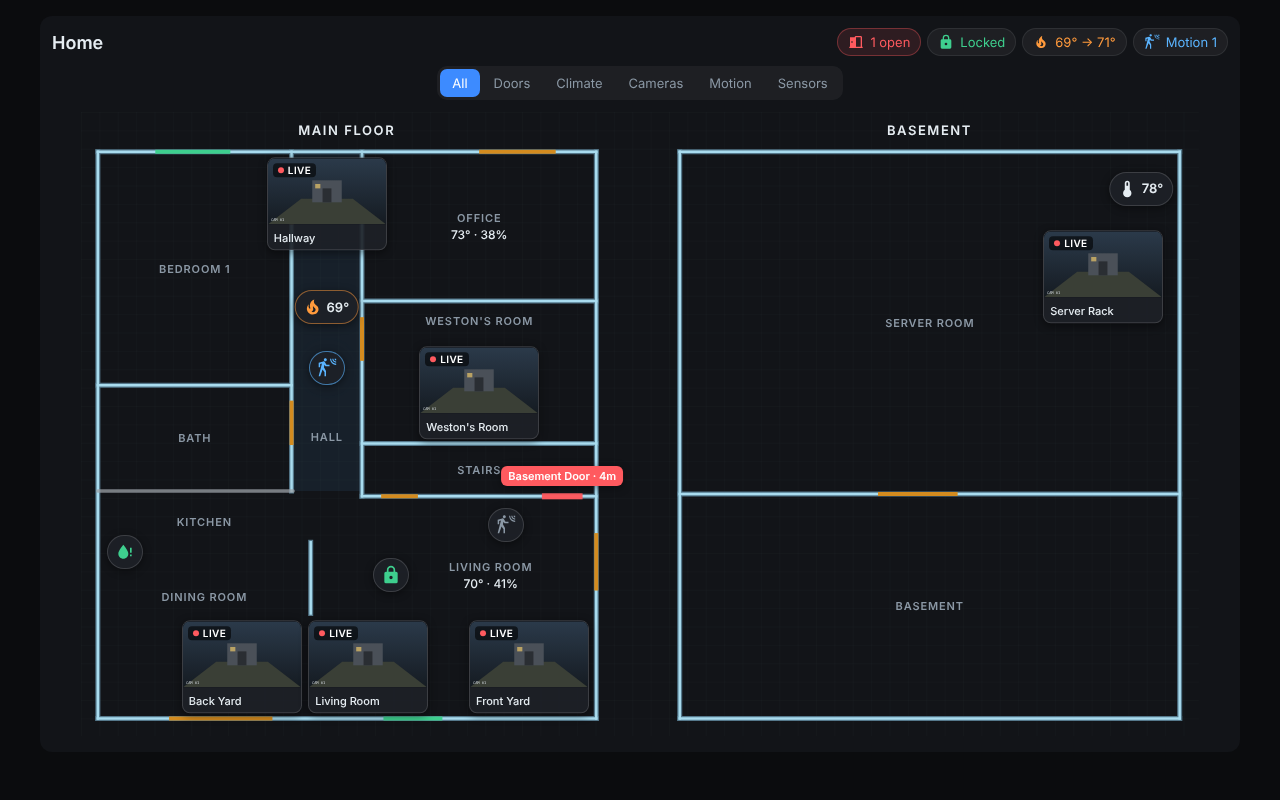
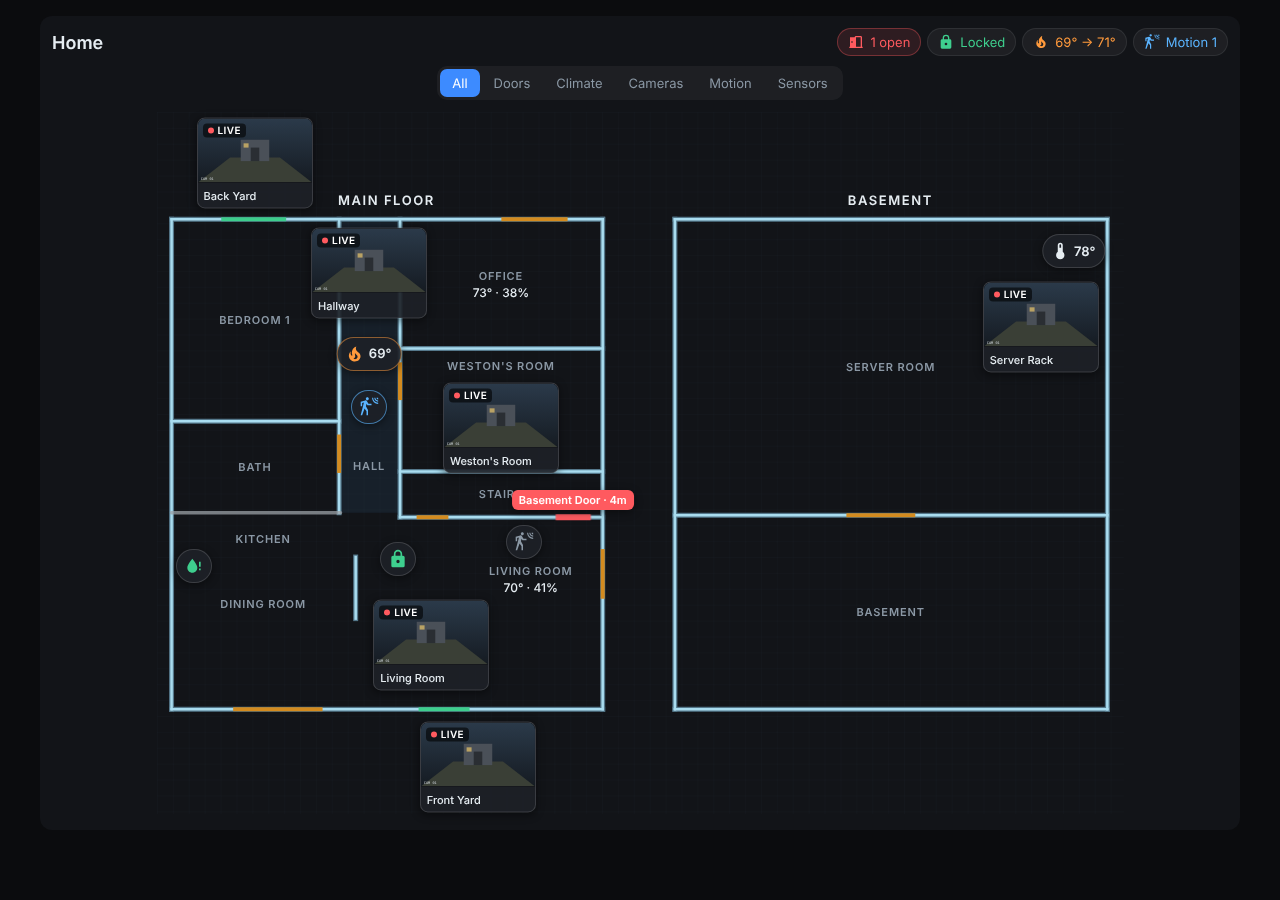
Move yard cameras outside the house and scale previews with the card

diff --git a/home-view-card.js b/home-view-card.js
@@ -1,4 +1,4 @@
-const VERSION = "0.2.1";
+const VERSION = "0.2.2";
 
 const ICON = {
   door: "M8,3C6.89,3 6,3.89 6,5V21H18V5C18,3.89 17.11,3 16,3H8M8,5H16V19H8V5M13,11V13H15V11H13Z",
@@ -26,7 +26,7 @@ const ICON = {
   help: "M11,18H13V16H11V18M12,2A10,10 0 0,0 2,12A10,10 0 0,0 12,22A10,10 0 0,0 22,12A10,10 0 0,0 12,2M12,20C7.59,20 4,16.41 4,12C4,7.59 7.59,4 12,4C16.41,4 20,7.59 20,12C20,16.41 16.41,20 12,20M12,6A4,4 0 0,0 8,10H10A2,2 0 0,1 12,8A2,2 0 0,1 14,10C14,12 11,11.75 11,15H13C13,12.75 16,12.5 16,10A4,4 0 0,0 12,6Z",
 };
 
-const DEFAULT_PLAN = {view_box:[55,-5,1460,815],stack:{split_x:780,move:[-760,830],below:700},labels:[{text:"Main Floor",x:402,y:18},{text:"Basement",x:1163,y:18}],rooms:[{name:"Bedroom 1",rect:[77,47,330,352]},{name:"Bath",rect:[77,352,330,490]},{name:"Hall",rect:[330,47,422,490],label_at:[376,420]},{name:"Office",rect:[422,47,728,242]},{name:"Weston's Room",rect:[422,242,728,428],label_at:[575,268]},{name:"Stairs",rect:[422,428,728,497]},{name:"Kitchen",rect:[77,490,355,650],label_at:[216,530]},{name:"Living Room",points:[[355,490],[422,490],[422,497],[728,497],[728,787],[355,787]],label_at:[590,600]},{name:"Dining Room",rect:[77,650,355,787],label_at:[216,628]},{name:"Server Room",rect:[837,47,1490,494]},{name:"Basement",rect:[837,494,1490,787]}],walls:[[77,47,728,47],[728,47,728,787],[728,787,77,787],[77,787,77,47],[330,47,330,490],[77,352,330,352],[422,47,422,497],[422,242,728,242],[422,428,728,428],[422,497,728,497],[355,557,355,650],[837,47,1490,47],[1490,47,1490,787],[1490,787,837,787],[837,787,837,47],[837,494,1490,494]],half_walls:[[77,490,332,490]],openings:[{name:"Front Door",type:"door",line:[450,787,527,787]},{name:"Patio Door",type:"door",line:[170,787,305,787]},{name:"Side Door",type:"door",line:[728,545,728,620]},{name:"Bedroom Sliding",type:"door",line:[152,47,250,47]},{name:"Office Window",type:"window",line:[575,47,675,47]},{name:"Bedroom 1 Door",line:[330,95,330,142]},{name:"Bath Door",line:[330,372,330,430]},{name:"Office Door",type:"door",line:[422,92,422,140]},{name:"Weston's Room Door",line:[422,263,422,320]},{name:"Closet Door",line:[447,497,495,497]},{name:"Basement Door",type:"door",line:[657,497,710,497]},{name:"Basement Door",line:[1096,494,1200,494]}]};
+const DEFAULT_PLAN = {view_box:[55,-115,1460,1060],stack:{split_x:780,move:[-760,920],below:700},labels:[{text:"Main Floor",x:402,y:18},{text:"Basement",x:1163,y:18}],rooms:[{name:"Bedroom 1",rect:[77,47,330,352]},{name:"Bath",rect:[77,352,330,490]},{name:"Hall",rect:[330,47,422,490],label_at:[376,420]},{name:"Office",rect:[422,47,728,242]},{name:"Weston's Room",rect:[422,242,728,428],label_at:[575,268]},{name:"Stairs",rect:[422,428,728,497]},{name:"Kitchen",rect:[77,490,355,650],label_at:[216,530]},{name:"Living Room",points:[[355,490],[422,490],[422,497],[728,497],[728,787],[355,787]],label_at:[620,590]},{name:"Dining Room",rect:[77,650,355,787],label_at:[216,628]},{name:"Server Room",rect:[837,47,1490,494]},{name:"Basement",rect:[837,494,1490,787]}],walls:[[77,47,728,47],[728,47,728,787],[728,787,77,787],[77,787,77,47],[330,47,330,490],[77,352,330,352],[422,47,422,497],[422,242,728,242],[422,428,728,428],[422,497,728,497],[355,557,355,650],[837,47,1490,47],[1490,47,1490,787],[1490,787,837,787],[837,787,837,47],[837,494,1490,494]],half_walls:[[77,490,332,490]],openings:[{name:"Front Door",type:"door",line:[450,787,527,787]},{name:"Patio Door",type:"door",line:[170,787,305,787]},{name:"Side Door",type:"door",line:[728,545,728,620]},{name:"Bedroom Sliding",type:"door",line:[152,47,250,47]},{name:"Office Window",type:"window",line:[575,47,675,47]},{name:"Bedroom 1 Door",line:[330,95,330,142]},{name:"Bath Door",line:[330,372,330,430]},{name:"Office Door",type:"door",line:[422,92,422,140]},{name:"Weston's Room Door",line:[422,263,422,320]},{name:"Closet Door",line:[447,497,495,497]},{name:"Basement Door",type:"door",line:[657,497,710,497]},{name:"Basement Door",line:[1096,494,1200,494]}]};
 
 const OPEN_STATES = new Set(["on", "open", "opening", "closing", "unlocked", "unlocking", "jammed"]);
 const DEAD_STATES = new Set(["unavailable", "unknown"]);
@@ -231,7 +231,7 @@ svg.floor line, svg.floor polygon { vector-effect: non-scaling-stroke; }
 .dev.alert { color: #fff; background: var(--hv-open); border-color: var(--hv-open); }
 .dev.missing, .dev.dead { opacity: 0.5; border-style: dashed; }
 .dev.fan.on svg { animation: spin 1.4s linear infinite; }
-.dev.preview { flex-direction: column; height: auto; width: var(--hv-preview-width, 120px); padding: 0; border-radius: 8px; overflow: hidden; }
+.dev.preview { flex-direction: column; height: auto; width: var(--hv-preview-width, clamp(90px, 12cqw, 150px)); padding: 0; border-radius: 8px; overflow: hidden; }
 .dev.preview .ico { display: none; }
 .dev.preview img { display: block; width: 100%; aspect-ratio: 16 / 9; object-fit: cover; background: #000; }
 .dev.preview .live {

diff --git a/README.md b/README.md
@@ -90,7 +90,7 @@ Everything is drawn in one coordinate space that you pick. The example uses the 
 | `name` | Overrides the friendly name |
 | `icon` | Any `mdi:` icon to override the default |
 | `layer` | Force a filter tab: `doors`, `climate`, `cameras`, `lights`, `motion`, `sensors` |
-| `preview` | Cameras only: show a live snapshot instead of an icon |
+| `preview` | Cameras only: show a live snapshot instead of an icon. Size scales with the card; override with `--hv-preview-width`. |
 | `show_name` | Name under this marker |
 | `show_value` | Set `false` to hide the temperature/value text |
 | `show_brightness` | Lights only: show brightness % when on |
